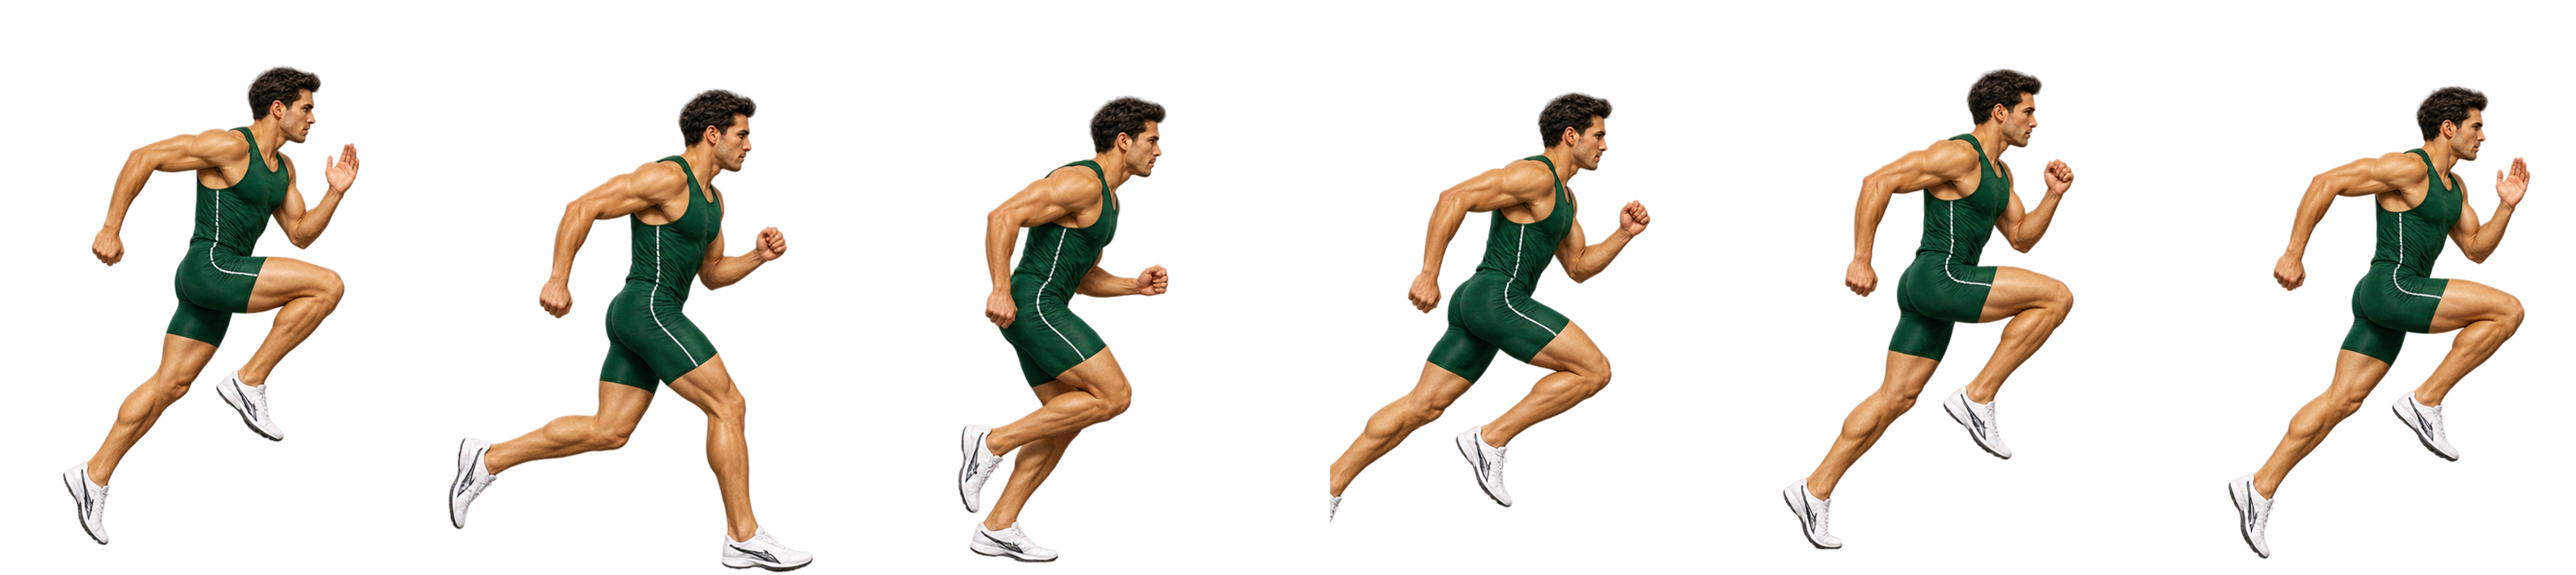
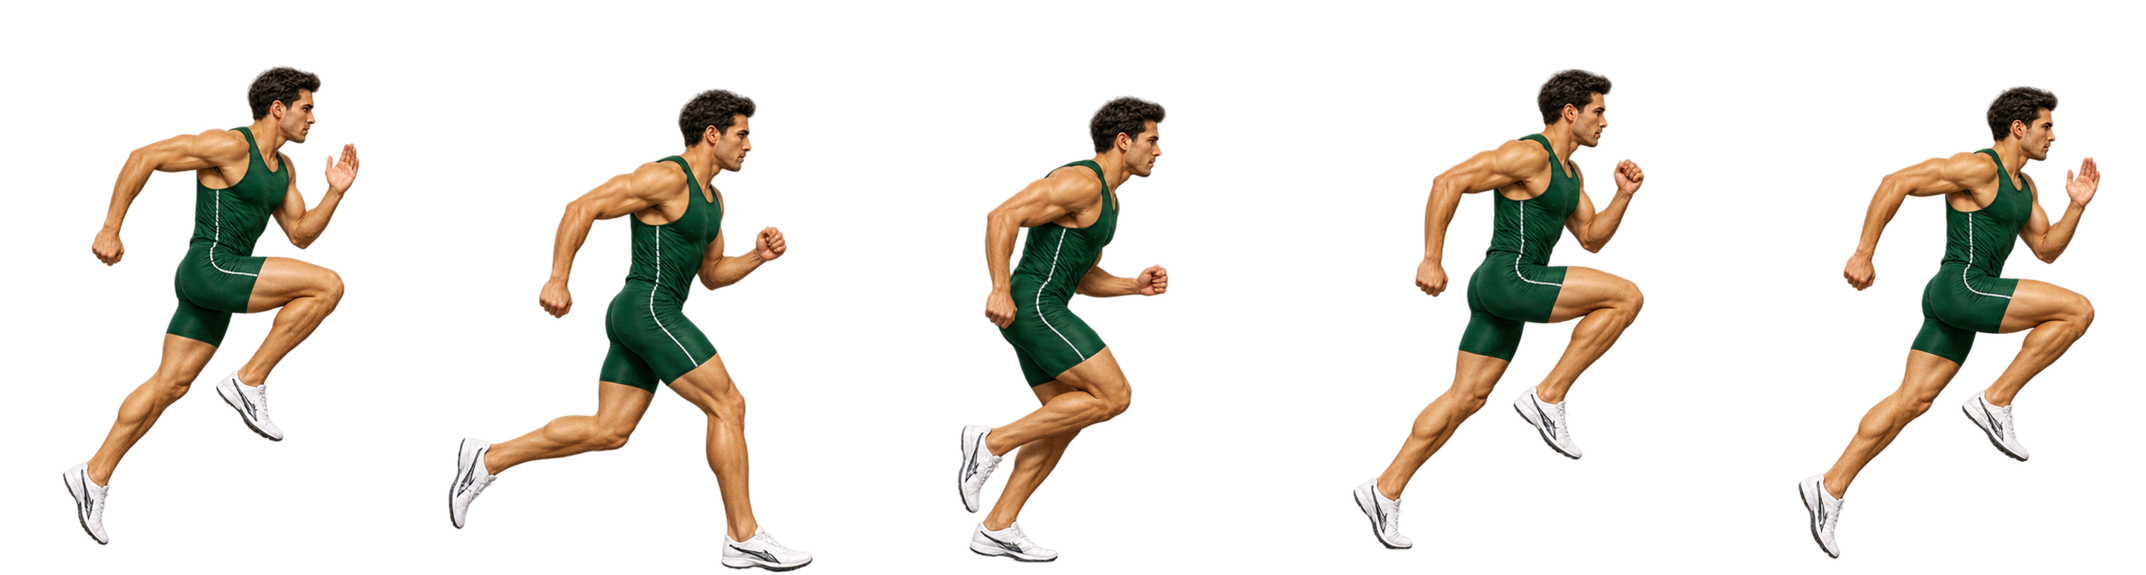
Remove remaining stray legs from sprint animation

diff --git a/parts/3.1/index.html b/parts/3.1/index.html
@@ -227,15 +227,14 @@
     #race-visual { display: block; min-height: 0; padding: 0; }
     #race-visual .race-scene { position: relative; width: min(100%, 560px); aspect-ratio: 760 / 260; overflow: hidden; }
     #race-visual svg { width: 100%; height: 100%; max-height: none; }
-    .sprint-runner { position: absolute; left: 9%; bottom: 10%; width: 13%; height: 50%; background-image: url("sprint-run-cycle.png"); background-repeat: no-repeat; background-position: 0 0; background-size: 600% 100%; }
+    .sprint-runner { position: absolute; left: 9%; bottom: 10%; width: 13%; height: 50%; background-image: url("sprint-run-cycle.png"); background-repeat: no-repeat; background-position: 0 0; background-size: 500% 100%; }
     .sprint-runner::after { content: ""; position: absolute; left: 28%; bottom: 4%; width: 48%; height: 4px; border-radius: 50%; background: rgb(47 48 38 / 24%); filter: blur(2px); }
     @keyframes sprint-cycle {
       0% { background-position: 0% 0%; }
-      16.66% { background-position: 20% 0%; }
-      33.33% { background-position: 40% 0%; }
-      50% { background-position: 60% 0%; }
-      66.66% { background-position: 80% 0%; }
-      83.33%, 100% { background-position: 100% 0%; }
+      20% { background-position: 25% 0%; }
+      40% { background-position: 50% 0%; }
+      60% { background-position: 75% 0%; }
+      80%, 100% { background-position: 100% 0%; }
     }
     @keyframes sprint-travel { from { left: 9%; } to { left: 72.5%; } }
     .race-running .sprint-runner { animation: sprint-travel 9.63s linear forwards, sprint-cycle .48s steps(1, end) infinite; }
